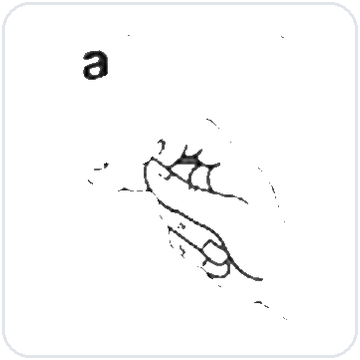
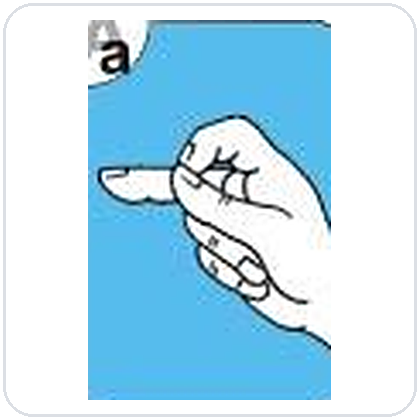
Refaz as imagens dos sinais a cores (oficiais APS, nitidas)
A versao a preto-e-branco ficou esborratada e pouco legivel. Volta aos desenhos
oficiais coloridos do cartaz da APS, ampliados 4x com suavizacao (LANCZOS) e
leve nitidez, em cartao branco uniforme. Muito mais claros. Versao -> 0.9.

diff --git a/src/App.jsx b/src/App.jsx
@@ -5,7 +5,7 @@ import AlphabetGuide from './components/AlphabetGuide.jsx';
 import { pickRandomWord } from './lib/words.js';
 
 const HOLD_FRAMES = 14;
-const APP_VERSION = '0.8';
+const APP_VERSION = '0.9';
 
 export default function App() {
   const [started, setStarted] = useState(false);
